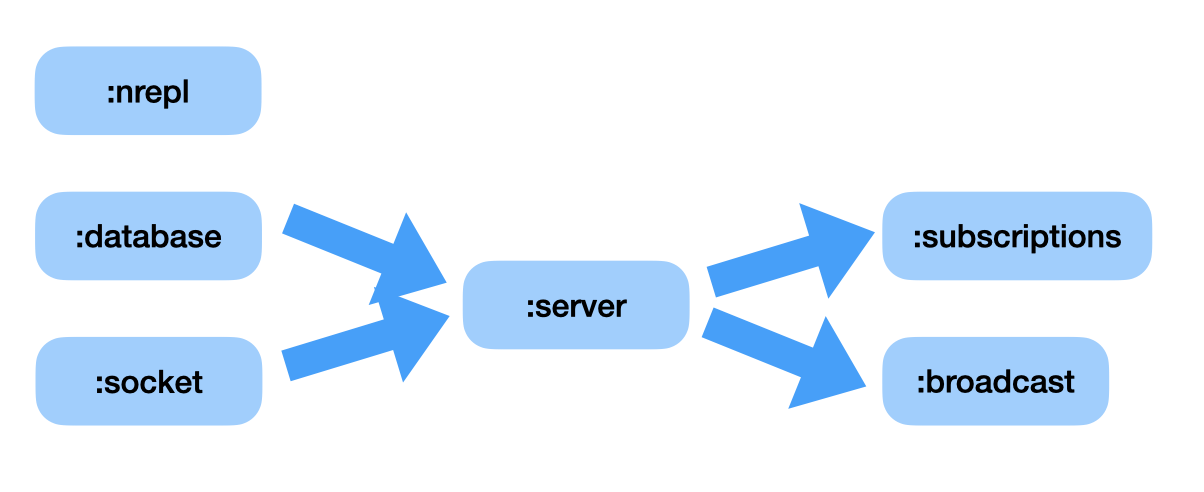
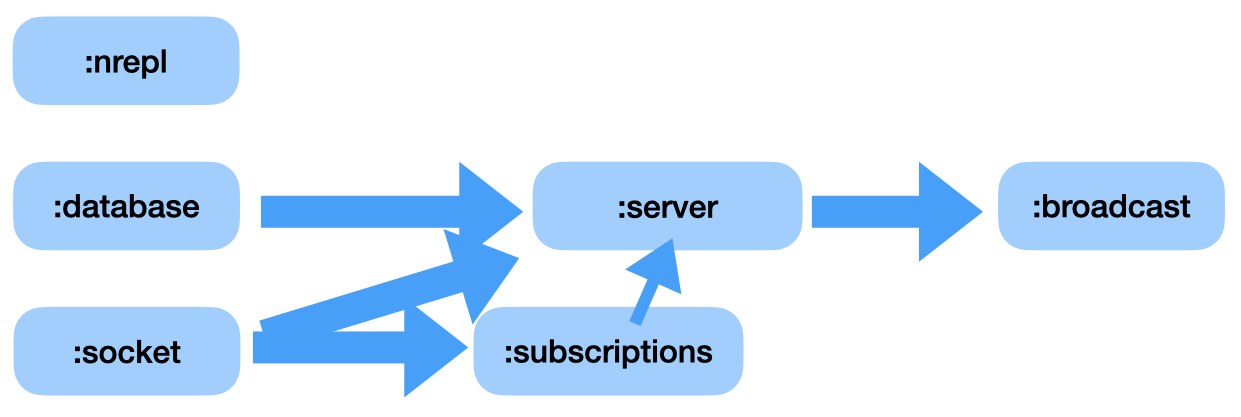
- updated version number handler to use metav - passing subscriptions into the route handlers now - updated figure for the System DAG - adding more docstrings - some new things on the "futures" list

diff --git a/README.md b/README.md
@@ -66,19 +66,22 @@ There are lots of things we wanted to learn more about, and we've done that:
 
 But there are still many things we want to learn:
 
-1. [ ] [Develop a more complex API (paving the way to Rocky-road)](/docs/complex-api.md)
-2. [ ] Implement more of the API:
+1. [X] version support using [metav](https://github.com/jgrodziski/metav)
+2. [ ] [Develop a more complex API (paving the way to Rocky-road)](/docs/complex-api.md)
+3. [ ] Implement more of the API:
    1. [ ] Fix Users
       1. [ ] [Login]()
       2. [ ] [Register]()
    2. [ ] Widgets/Layouts
    3. [ ] Comms
    4. [ ] Sensors/Beams
-3. [ ] Remove "Broadcast" (Concept22 doesn't really support this notion of the server publishing on a timer)
-4. [ ] [De-complect things](/docs/decompleting.md)
-5. [ ] [Re-think the UI](/docs/rethinking-ui.md)
-6. [ ] Work out an automated testing approach
-7. [ ] (optional) Consider moving to [Reitit](/docs/routing.md) (see item 13.3 above)
+4. [ ] Remove "Broadcast" (Concept22 doesn't really support this notion of the server publishing on a timer)
+5. [ ] [De-complect things](/docs/decompleting.md)
+6. [ ] [Re-think the UI](/docs/rethinking-ui.md)
+7. [ ] Work out an automated testing approach
+8. [ ] Add metrics collection to the Server
+   1. [ ] [statsd](https://github.com/statsd/statsd), via [clojure-statsd-client](https://github.com/unbounce/clojure-dogstatsd-client)
+9. [ ] (optional) Consider moving to [Reitit](/docs/routing.md) (see item 13.3 above)
 
 
 ## Getting Started
@@ -94,7 +97,7 @@ at the terminal using:
 
     shadow-cljs watch :app
 
-ONce the Server is running, you can open a browser to:
+Once the Server is running, you can open a browser to:
 
 [http://localhost:8280/](http://localhost:8280/)
 
@@ -108,10 +111,14 @@ The server is build using the [Clojure CLI](https://clojure.org/guides/deps_and_
 
     clojure -M:run
 
-If you prefer, you can start the server at a local repl. Configure you IDE to start a repl; don't
-worry about any aliases, there aren't any at this time.
+If you prefer, you can start the server at a local repl. Configure you IDE to start a repl. You can user the
+`reveal` alias to provide support for `(tap> ...)` using the very nice [reveal]() tool.
 
-Then open src/clj/bh/rccst/core.clj. Load the file into the open repl and then begin evaluating
+Then open 
+
+    src/clj/bh/rccst/core.clj 
+
+Load the file into the open repl and begin evaluating.
 
 ### Swagger-UI
 
@@ -122,8 +129,10 @@ Just open a new browser tab to:
 
 And have a ball.
 
-> Note: You must provide any inputs in "transit over json" [format](https://github.com/cognitect/transit-format#ground-and-extension-types). 
+> Note 1: You must provide any inputs in "transit over json" [format](https://github.com/cognitect/transit-format#ground-and-extension-types). 
 > See [here](https://github.com/cognitect/transit-format) for more details.
+
+> Note 2: You must also be running the server in _dev-mode_, ie.e, _without_ CSRF Anti-forgery support.
 
 ## Project Details 
 
